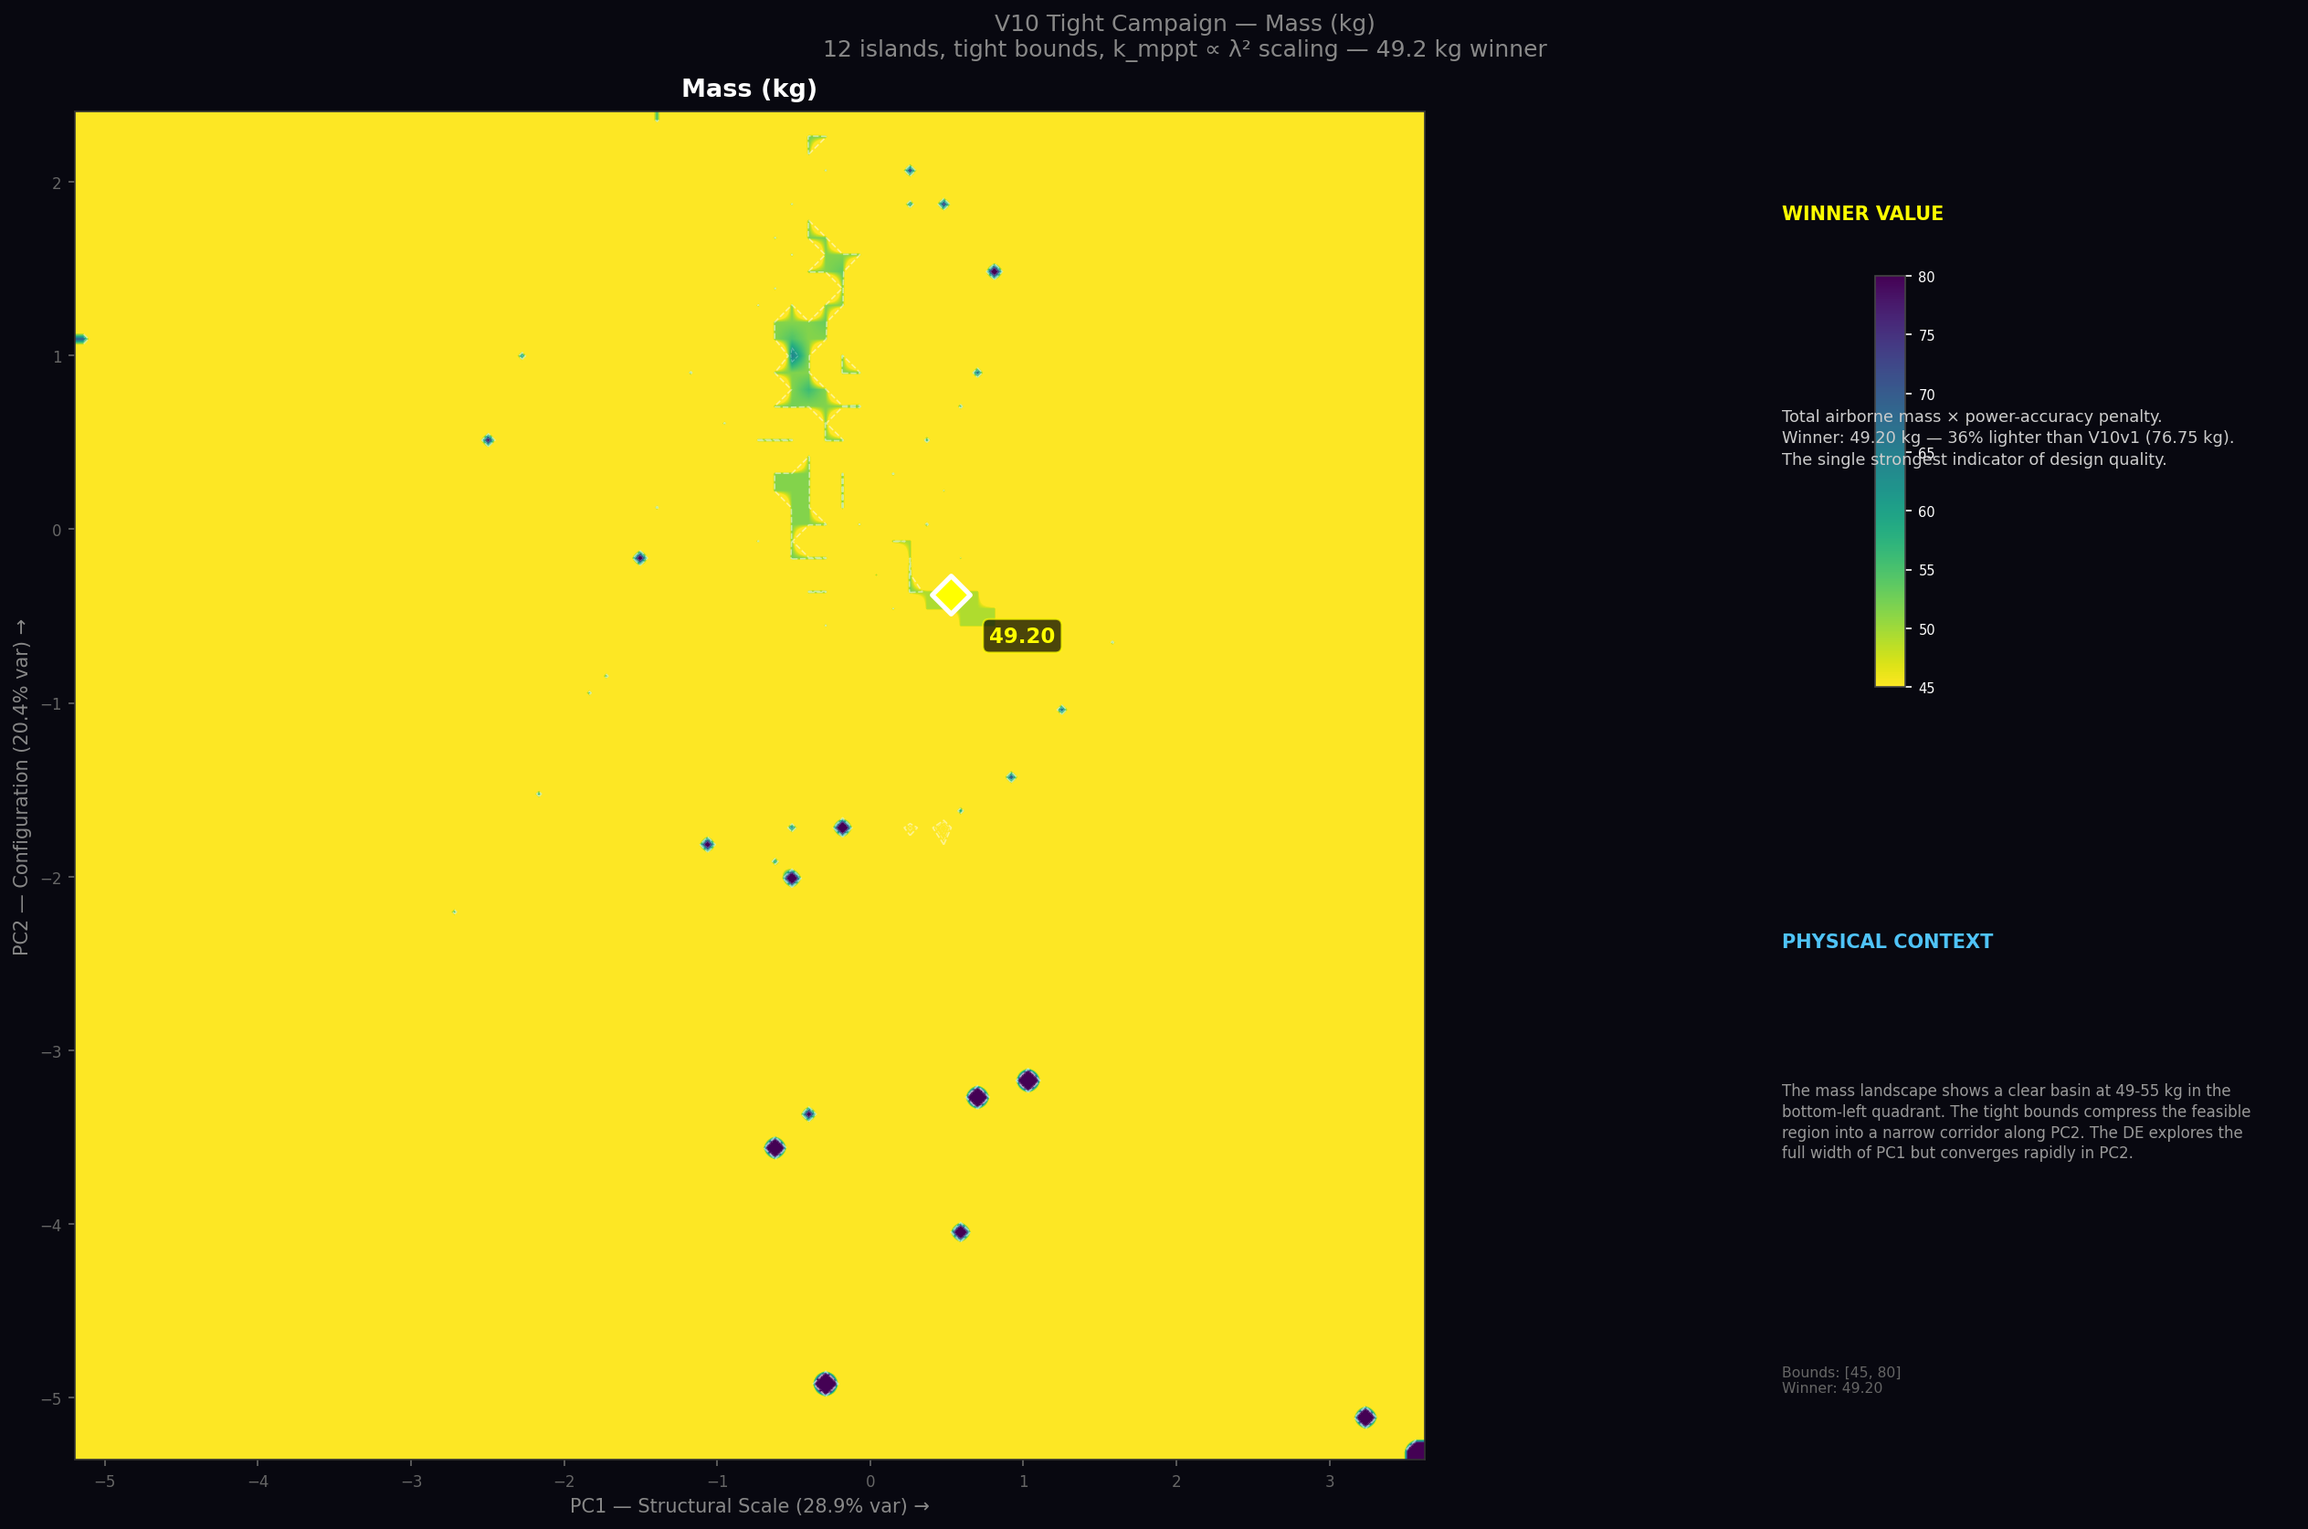
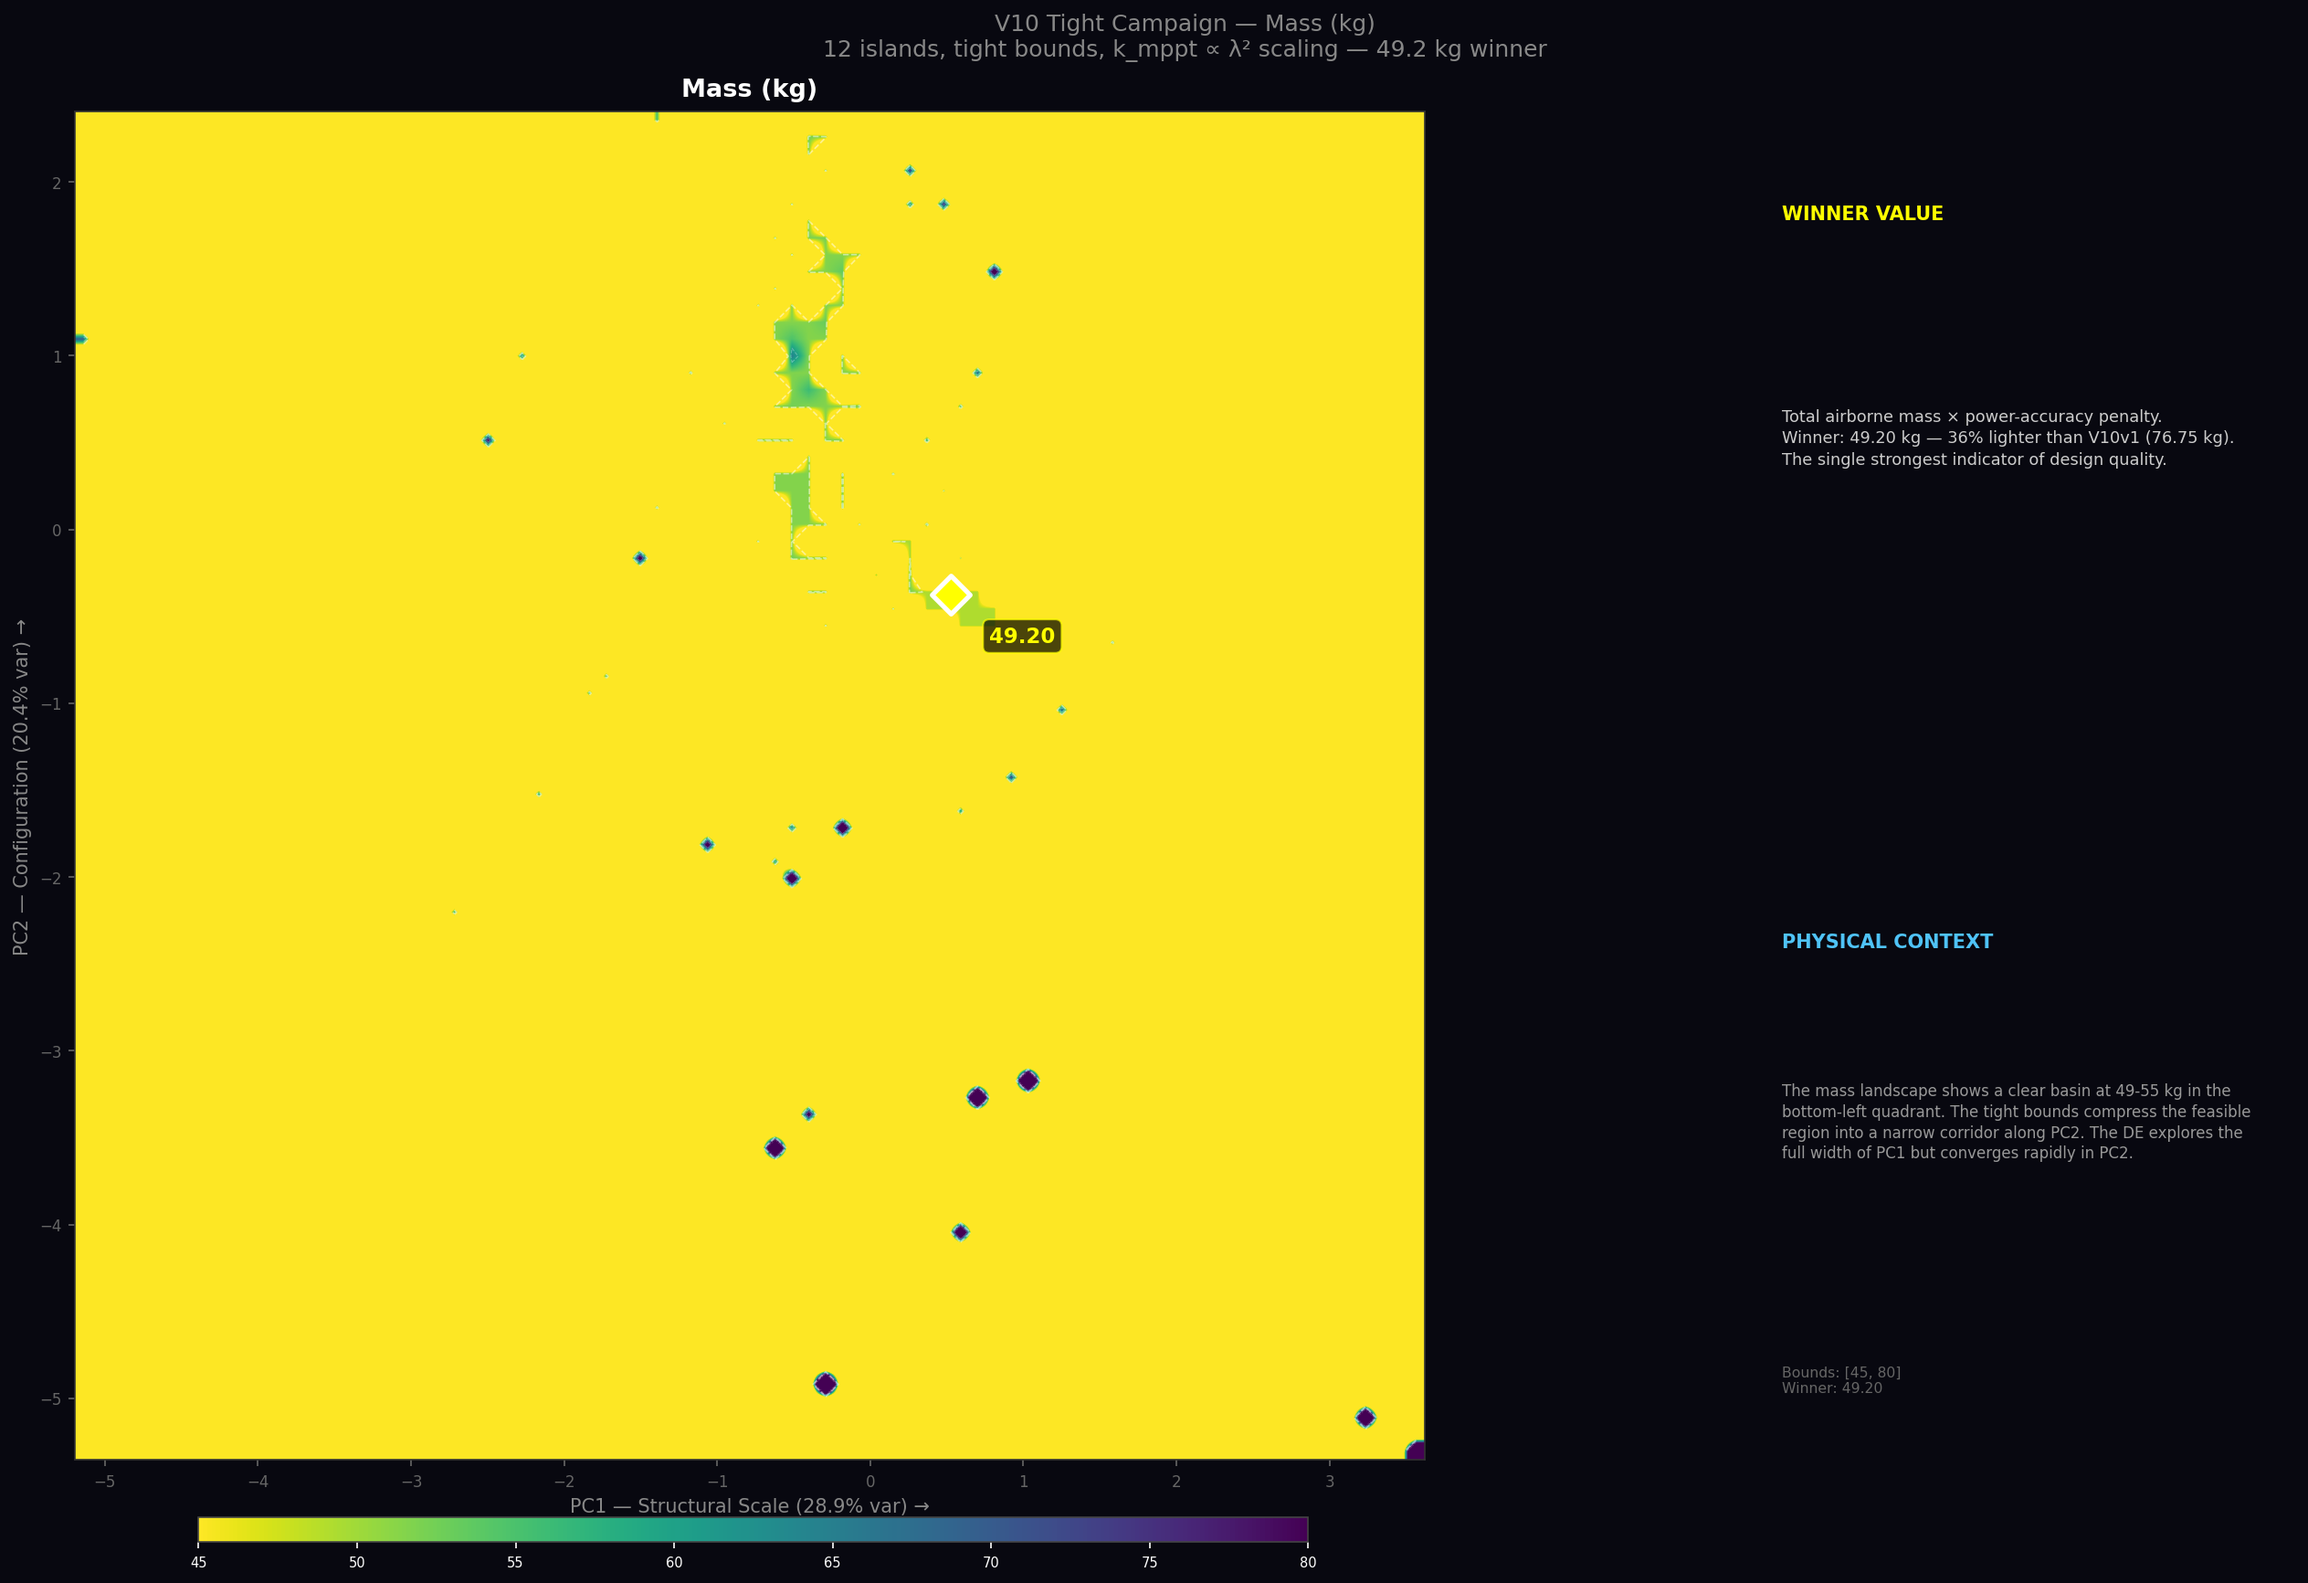
fix: move colorbar to bottom of panel diagrams, eliminating text overlap
Horizontal colorbar at bottom of heatmap frees right-side annotation
panel from overlap with vertical colorbar. Same fix applied to both
non-dimensional and parameter panel generators.

diff --git a/scripts/render_v10_tight_param_panels.py b/scripts/render_v10_tight_param_panels.py
@@ -95,8 +95,9 @@ for field, cmap, title, callout, context, vmin_o, vmax_o in PARAM_PANELS:
     ax.set_title(title, fontsize=13, color='white', fontweight='bold', pad=8)
     ax.set_xlim(apc1.min(), apc1.max()); ax.set_ylim(apc2.min(), apc2.max())
     
-    cbar_ax = fig.add_axes([0.78, 0.55, 0.012, 0.25])
-    cbar = fig.colorbar(im, cax=cbar_ax)
+    # Colorbar at bottom of heatmap
+    cbar_ax = fig.add_axes([0.10, 0.03, 0.45, 0.015])
+    cbar = fig.colorbar(im, cax=cbar_ax, orientation='horizontal')
     cbar.ax.tick_params(labelsize=7, colors='white'); cbar.outline.set_edgecolor('#444')
     
     ax_r = fig.add_subplot(gs[0, 1]); ax_r.set_xlim(0, 1); ax_r.set_ylim(0, 1); ax_r.axis('off')

diff --git a/scripts/render_v10_tight_panels.py b/scripts/render_v10_tight_panels.py
@@ -132,9 +132,9 @@ for field, cmap, title, callout, context, vmin_o, vmax_o in PI_PANELS:
     ax.set_title(title, fontsize=13, color='white', fontweight='bold', pad=8)
     ax.set_xlim(apc1.min(), apc1.max()); ax.set_ylim(apc2.min(), apc2.max())
     
-    # Colorbar
-    cbar_ax = fig.add_axes([0.78, 0.55, 0.012, 0.25])
-    cbar = fig.colorbar(im, cax=cbar_ax)
+    # Colorbar at bottom of heatmap
+    cbar_ax = fig.add_axes([0.10, 0.03, 0.45, 0.015])
+    cbar = fig.colorbar(im, cax=cbar_ax, orientation='horizontal')
     cbar.ax.tick_params(labelsize=7, colors='white'); cbar.outline.set_edgecolor('#444')
     
     # Right panel: context + callout
